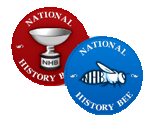
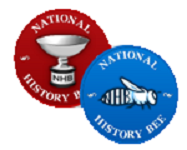
Work

diff --git a/index.html b/index.html
@@ -2,7 +2,9 @@
  <html lang="en">
 
 <head>
-    <meta charset="utf-8">
+    <meta charset="utf-8" />
+    <meta name="viewport" content="width=device-width, initial-scale=1" />
+    
     <title>Justin Htay</title>    
     
     <!-- Load Bootstrap -->
@@ -50,7 +52,8 @@
                     <li class="dropdown">
                         <a style="color:#B3A369; background-color: #222;" class="dropdown-toggle menu-text" data-toggle="dropdown" role="button" aria-haspopup="true" aria-expanded="false">Contents<span class="caret"></span></a>
                         <ul class="dropdown-menu-left dropdown-menu menu-text" id="menu">
-                            <li><a ref="#intro" data-toggle="collapse" data-target="menu">About Me</a></li>
+                            <li><a href="#intro" data-toggle="collapse" data-target="menu">About Me</a></li>
+                            <li><a href="#jobs" data-toggle="collapse" data-target="menu">Work Experience</a></li>
                         </ul>
                     </li>
                 </ul>
@@ -80,13 +83,15 @@
 
     <!-- Work Experience -->
     
-    <div class="container-fluid text-center resume-section color-2">
+    <div class="container-fluid text-center resume-section color-2" id="jobs">
         <h2> Where have I worked? </h2>
         <hr/>
+        
+        <!-- Images -->
         <div class="row">
             <div class="col-md-4">
                 <a href="#TA" data-toggle="collapse">
-                    <img class="img-circle img-responsive" src="./resources/images/GT.png" class="img-responsive" style="display:inline" alt="GTpic" />
+                    <img class="img-circle img-responsive" src="./resources/images/GT.png" alt="GTpic" />
                 </a>
                 <div id="TA" class="in collapse">
                     <p> 
@@ -102,7 +107,7 @@
             </div>
             <div class="col-md-4">
                 <a href="#GTRI" data-toggle="collapse">
-                    <img src="./resources/images/GTRI.png" class="img-responsive" style="display:inline" alt="GTRIpic" />
+                    <img src="./resources/images/GTRI-1.png" class="img-responsive" alt="GTRIpic" />
                 </a>
                 <div id="GTRI" class="in collapse">
                     <p>
@@ -120,11 +125,11 @@
             </div>
             <div class="col-md-4">
                 <a href="#NHBB" data-toggle="collapse">
-                    <img class="img-rounded img-responsive" src="./resources/images/NHBB.png" class="img-responsive" style="display:inline" alt="NHBBpic" />
+                    <img class="img-rounded img-responsive" src="./resources/images/NHBB-1.png" alt="NHBBpic" />
                 </a>
                 <div id="NHBB" class="in collapse">
                     <p>
-                    The National History Bee and Bowl (<b>NHBB</b>) organizes quiz competitions for middle and high school students around the globe on primarily historical content. Thanks to my experience in <a href="#">Academic Bowl</a> and love of history, I am a seasoned writer of questions. At NHBB, I:
+                    I am a writer for the National History Bee and Bowl (<b>NHBB</b>). NHBB organizes quiz competitions for middle and high school students around the globe on primarily historical content. Thanks to my experience in <a href="#">Academic Bowl</a> and love of history, I am a seasoned writer of questions. At NHBB, I:
                         <ul>
                             <li>Wrote 800+ questions with a 99% acceptance rate. These questions were used in all levels of competition, from local tournaments to the International History Olympiad.</li>
                             <li>Wrote 40%+ of a set on short notice, which is a very high proportion for a single writer. For my efforts, I was recognized by the Director for Question Production for outstanding contributions.</li>
@@ -134,6 +139,51 @@
                 </div>
             </div>
         </div>
+
+        <!--
+        <div class="row">
+            <div class="col-md-4">
+                <div id="TA" class="in collapse">
+                    <p> 
+                    I currently work as an Undergraduate Teaching Assistant (<b>UTA</b>) for the College of Computing at Georgia Tech, teaching <b>CS 1371</b>, which is the introductory programming class for most engineering students at Georgia Tech. We have over 1000 students enrolled in the class in the larger semesters. As a TA, I have:
+                        <ul>
+                            <li>Served as <b>Course Manager and Homework Lead</b> concurrently for two summer semesters. As Course Manager, I was responsible for smooth operation of the class, managing the TA team, and communicating with the professor who taught the class. As Homework Lead, I published weekly homeworks for the class.</li>
+                            <li>Wrote 20+ homework problems that were both creative and instructive for students.</li>
+                            <li>Taught 1.5-2 hour recitations and held 3 hours of office hours weekly for a section of approximately 50 students.</li>
+                        </ul>
+                    I have worked as a TA from January 2017 until the present.
+                    </p>
+                </div>
+            </div>
+            <div class="col-md-4">
+                <div id="GTRI" class="in collapse">
+                    <p>
+                    I worked as a High-Performance Computing (<b>HPC</b>) co-op in the Advanced Concepts Laboratory (<b>ACL</b>) of the Georgia Tech Research Institute (<b>GTRI</b>). I was responsible for maintaining and upgrading 10+ HPC resources and performed numerous electromagnetic modeling tasks. Highlights of my time at GTRI include:
+                        <ul>
+                            <li>Applying <b>numerical optimization</b> techniques (e.g <b>genetic algorithms</b>) to design electromagnetic structures using the <b>FDTD</b> method</li>
+                            <li>Designing a fragmented aperture antenna that was produced using a novel 3D-printed approach that resulted in a paper.</li>
+                            <li>Designing a Frequency Selective Surface (<b>FSS</b>) for use in a novel periodic structure. My designs were important in getting the project extended a year with additional funding.</li>
+                            <li>Installing 5 major ACL computing resources on <b>Linux</b> operating systems (both <b>RHEL</b> and <b>Ubuntu</b>) and managing 5+ other resources, extensively utilizing my knowledge of Linux, <b>bash</b>, and problem-solving techniques.</li>
+                            <li>Creating a dashboard using <a href="https://grafana.com">Grafana</a> to display ACL achievements and user statistics on the clustering resources to prospective customers.</li>
+                        </ul>
+                    I worked at GTRI from January 2017 to August 2018.
+                    </p>
+                </div>
+            </div>
+            <div class="col-md-4">
+                <div id="NHBB" class="in collapse">
+                    <p>
+                    I am a writer for the National History Bee and Bowl (<b>NHBB</b>). NHBB organizes quiz competitions for middle and high school students around the globe on primarily historical content. Thanks to my experience in <a href="#">Academic Bowl</a> and love of history, I am a seasoned writer of questions. At NHBB, I:
+                        <ul>
+                            <li>Wrote 800+ questions with a 99% acceptance rate. These questions were used in all levels of competition, from local tournaments to the International History Olympiad.</li>
+                            <li>Wrote 40%+ of a set on short notice, which is a very high proportion for a single writer. For my efforts, I was recognized by the Director for Question Production for outstanding contributions.</li>
+                        </ul>
+                    I have worked at NHBB from May 2015 to the present.
+                    </p>
+                </div>
+            </div>
+        </div>
+        -->
     </div>
     
 	

diff --git a/resources/css/styles.css b/resources/css/styles.css
@@ -40,7 +40,8 @@ b {
    padding: 100px 100px 100px 100px;
 }
 .resume-section {
-    padding-bottom:100px;
+    padding-bottom:50px;
+    padding-top:50px;
 }
 .color-1 {
     /*background-color:#2E1760;*/
@@ -52,4 +53,7 @@ b {
 /*	background: linear-gradient(#17245A,#003153,#17245A);*/
 	background: linear-gradient(#003153,#2E1761,#003153);
 
+}
+.img-responsive {
+    display: inline;
 }

diff --git a/resources/images/transparency.m b/resources/images/transparency.m
@@ -1,0 +1,17 @@
+img = imread('NHBB.png');
+mask2 = [];
+[r,c,~] = size(img);
+for x = 1:r
+    row = false(1,c);
+    rmask = img(x,:,1) > 125 & img(x,:,2) < 50 & img(x,:,3) < 50;
+    bmask = img(x,:,1) < 50 & img(x,:,2) < 120 & img(x,:,3) > 125;
+    mask = rmask | bmask;
+    inds = find(mask);
+    row(1:min(inds)) = true;
+    row(max(inds):end) = true;
+    if isempty(inds)
+        row = ~row;
+    end
+    mask2 = [mask2;row];
+end
+imwrite(img,'NHBB-1.png','Alpha',double(~mask2));
